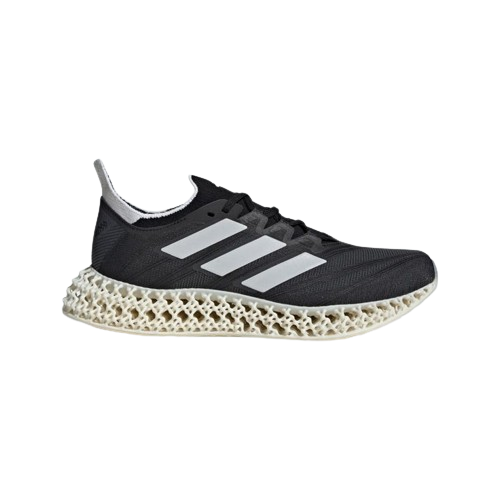
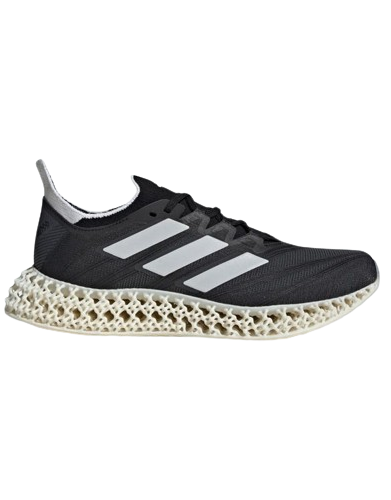
updated footwear section

Changed region(s): [[0.0, 0.3, 0.9821, 0.69]]

diff --git a/index.html b/index.html
@@ -277,35 +277,31 @@
 
         <br>
         <div class="sec-shoes">
+            
             <div class="swiper mySwiper">
                 <h3 class="sec-title">Footwears</h3>
                 <div class="swiper-wrapper">
                     <div class="swiper-slide">
                         <div class="card11">
-                            <img src="/public/4dfwd-removebg-preview.png"
-                                alt="R698 Mid - Sakura">
+
+                            <div class="img-container">
+                                <img src="/public/搶先預覽_INVINCIBLE_x_adidas_聯乘_Futurecraft_4D_鞋款-removebg-preview.png" alt="Reebok Classic">
+                            </div>
                             <div class="card-content">
-                                <h2>4DFWD 3 Running Shoes</h2>
-                                <p>Coded for forward motion, these running shoes provide a smooth ride.</p>
-                                <div class="price"><span>&#8377</span>15,399.00</div>
+                                <h2>Futurecraft 4D</h2>
+                                <p>Futurecraft 4D features a revolutionary 3D-printed midsole, offering unrivaled cushioning and responsiveness</p>
+                                <div class="price"><span>&#8377</span>32,499.00</div>
                                 <button>Add To Cart</button>
                             </div>
                         </div>
                     </div>
+                    
                     <div class="swiper-slide">
                         <div class="card11">
-                            <img src="/public/adidas_Ultra_Boost_low-top_sneakers-removebg-preview.png" alt="Air Max 90 Infrared">
-                            <div class="card-content">
-                                <h2>Ultraboost Light Shoes</h2>
-                                <p>Energised running shoes made in part with recycled materials.</p>
-                                <div class="price"><span>&#8377</span>13,299.00</div>
-                                <button>Add To Cart</button>
+
+                            <div class="img-container">
+                                <img src="/public/pngwing.com (1).png" alt="Yeezy Boost 350">
                             </div>
-                        </div>
-                    </div>
-                    <div class="swiper-slide">
-                        <div class="card11">
-                            <img src="/public/pngwing.com (1).png" alt="Yeezy Boost 350">
                             <div class="card-content">
                                 <h2>Yeezy Boosts 350</h2>
                                 <p>The low-top YEEZY BOOST 350 in tan features an upper composed of tonal Primeknit.</p>
@@ -314,9 +310,31 @@
                             </div>
                         </div>
                     </div>
+                    
+                    
                     <div class="swiper-slide">
                         <div class="card11">
-                            <img src="/public/Tênis_Treziod_PT_Unisex-removebg-preview.png" alt="Nike Air Max 270">
+
+                            <div class="img-container">
+                                <img src="/public/pngwing.com.png" alt="Puma RS-X">
+                            </div>
+                            <div class="card-content">
+                                <h2>NMD_XR1</h2>
+                                <p>Combining sleek urban design with advanced Primeknit technology - an adaptive fit for the modern explorer
+                                </p>
+                                <div class="price"><span>&#8377</span>19,999.00</div>
+                                <button>Add To Cart</button>
+                            </div>
+                        </div>
+                    </div>
+                    
+                    
+                    <div class="swiper-slide">
+                        <div class="card11">
+
+                            <div class="img-container">
+                                <img src="/public/adidas-originals-shoe-white-sneakers-adidas-running-shoes-products-in-kind-27767fd8215ae3d7f28190c1b833f239.png" alt="Nike Air Max 270" class="chpic">
+                            </div>
                             <div class="card-content">
                                 <h2>Trezoid PT Shoes</h2>
                                 <p>Modern sneakers to dart through your day</p>
@@ -327,45 +345,14 @@
                     </div>
                     <div class="swiper-slide">
                         <div class="card11">
-                            <img src="/public/Adidas_Tênis_NMD_S1_-_Farfetch-removebg-preview.png" alt="Adidas Ultraboost">
+
+                            <div class="img-container">
+                                <img src="/public/pngwing.com (2).png" alt="Adidas Ultraboost">
+                            </div>
                             <div class="card-content">
                                 <h2>NMD_S1 Shoes</h2>
                                 <p>Responsive design with cosy details, made in part with parley ocean plastic.</p>
                                 <div class="price"><span>&#8377</span>13,199.00</div>
-                                <button>Add To Cart</button>
-                            </div>
-                        </div>
-                    </div>
-                    <div class="swiper-slide">
-                        <div class="card11">
-                            <img src="/public/pngwing.com.png" alt="Puma RS-X">
-                            <div class="card-content">
-                                <h2>NMD_XR1</h2>
-                                <p>Combining sleek urban design with advanced Primeknit technology - an adaptive fit for the modern explorer
-                                </p>
-                                <div class="price"><span>&#8377</span>19,999.00</div>
-                                <button>Add To Cart</button>
-                            </div>
-                        </div>
-                    </div>
-                    <div class="swiper-slide">
-                        <div class="card11">
-                            <img src="/public/搶先預覽_INVINCIBLE_x_adidas_聯乘_Futurecraft_4D_鞋款-removebg-preview.png" alt="Reebok Classic">
-                            <div class="card-content">
-                                <h2>Futurecraft 4D</h2>
-                                <p>Futurecraft 4D features a revolutionary 3D-printed midsole, offering unrivaled cushioning and responsiveness</p>
-                                <div class="price"><span>&#8377</span>32,499.00</div>
-                                <button>Add To Cart</button>
-                            </div>
-                        </div>
-                    </div>
-                    <div class="swiper-slide">
-                        <div class="card11">
-                            <img src="/public/ADIDAS_ORIGINALS_ADIDAS_ORIGINALS_黑色_ZX_4000_4D_运动鞋___adidasoriginals__shoes-removebg-preview.png" alt="Air Jordan 1">
-                            <div class="card-content">
-                                <h2>ZX 4000 4D</h2>
-                                <p>Blending retro-inspired aesthetics with futuristic technology featuring a unique 4D midsole for superior comfort and stability.</p>
-                                <div class="price"><span>&#8377</span>24,999.00</div>
                                 <button>Add To Cart</button>
                             </div>
                         </div>

diff --git a/styles.css b/styles.css
@@ -767,14 +767,31 @@ a:hover {
     box-shadow: 0 4px 6px rgba(0, 0, 0, 0.1);
     overflow: hidden;
     text-align: center;
+    height: 450px;
     width: 300px;
     margin: 10px;
 }
 
+.card11 .img-container {
+    height: 200px;
+}
+
 .card11 img {
-    width: 100%;
-    height: auto;
+    position: absolute;
+    width: auto;
+    height: 180px;
+    display: block;
+    margin: auto;
+    object-fit: cover;
     transition: 0.3s;
+    /* transform:  rotate(-45deg); */
+    margin-top: -30px;
+    /* z-index: 100; */
+}
+
+.card11 .chpic {
+    margin-bottom: -60px;
+    height: 140px;
 }
 
 .card11 img:hover {
@@ -782,16 +799,19 @@ a:hover {
     transform: scale(1.05);
 }
 
+
 .card-content {
     padding: 4px;
     color: #000;
+    height: 350px;
     background-color: #ffffff;
 }
 
 .card11 h2 {
     font-size: 18px;
     margin: 10px 0;
-    color: #000;}
+    color: #000;
+}
 
 .card11 p {
     font-size: 14px;
@@ -811,7 +831,7 @@ a:hover {
     padding: 10px 20px;
     margin: 10px;
     font-size: 14px;
-    border-radius: 5px;
+    border-radius: 10px;
     cursor: pointer;
     transition: background 0.3s ease;
 }
@@ -820,8 +840,6 @@ a:hover {
     background: #c0392b;
 }
 
-
-/* div */
 .mid {
     width: 100%;
     height: 350px;
